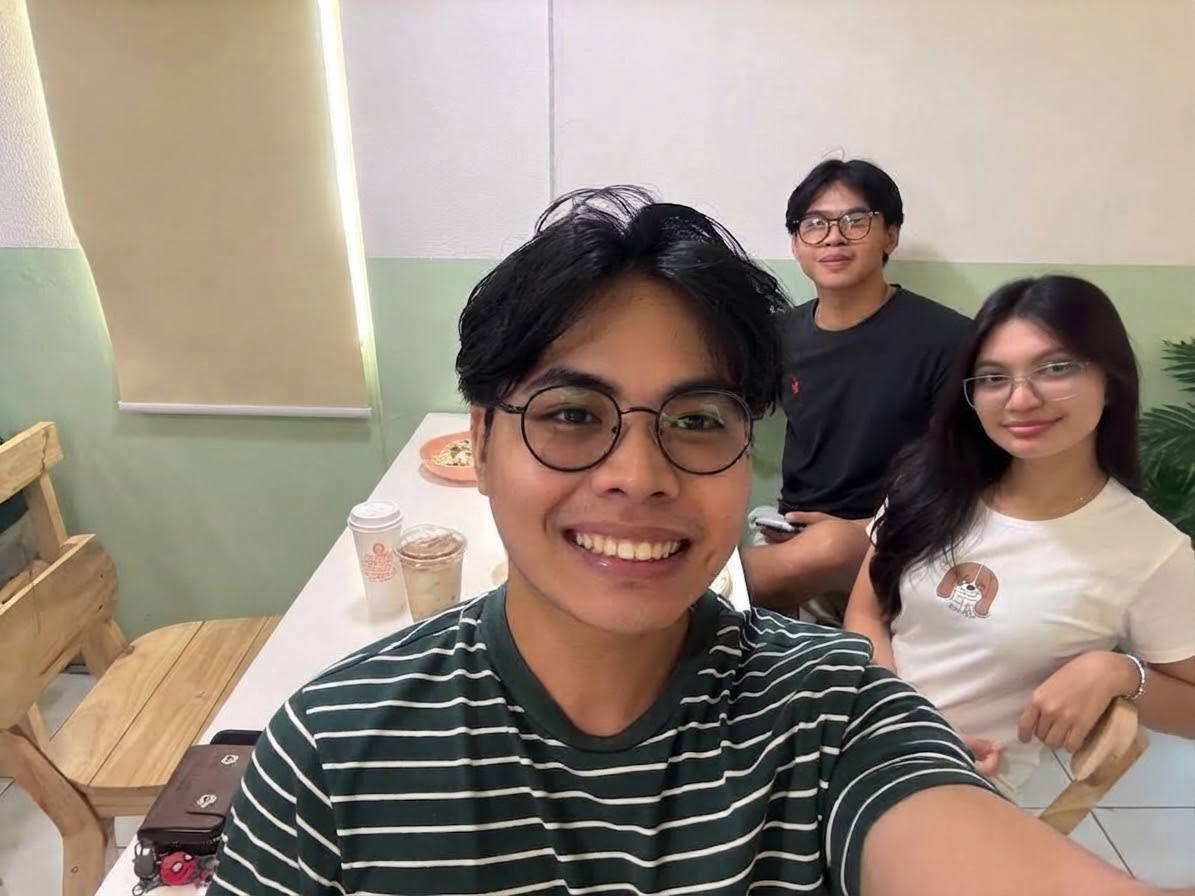
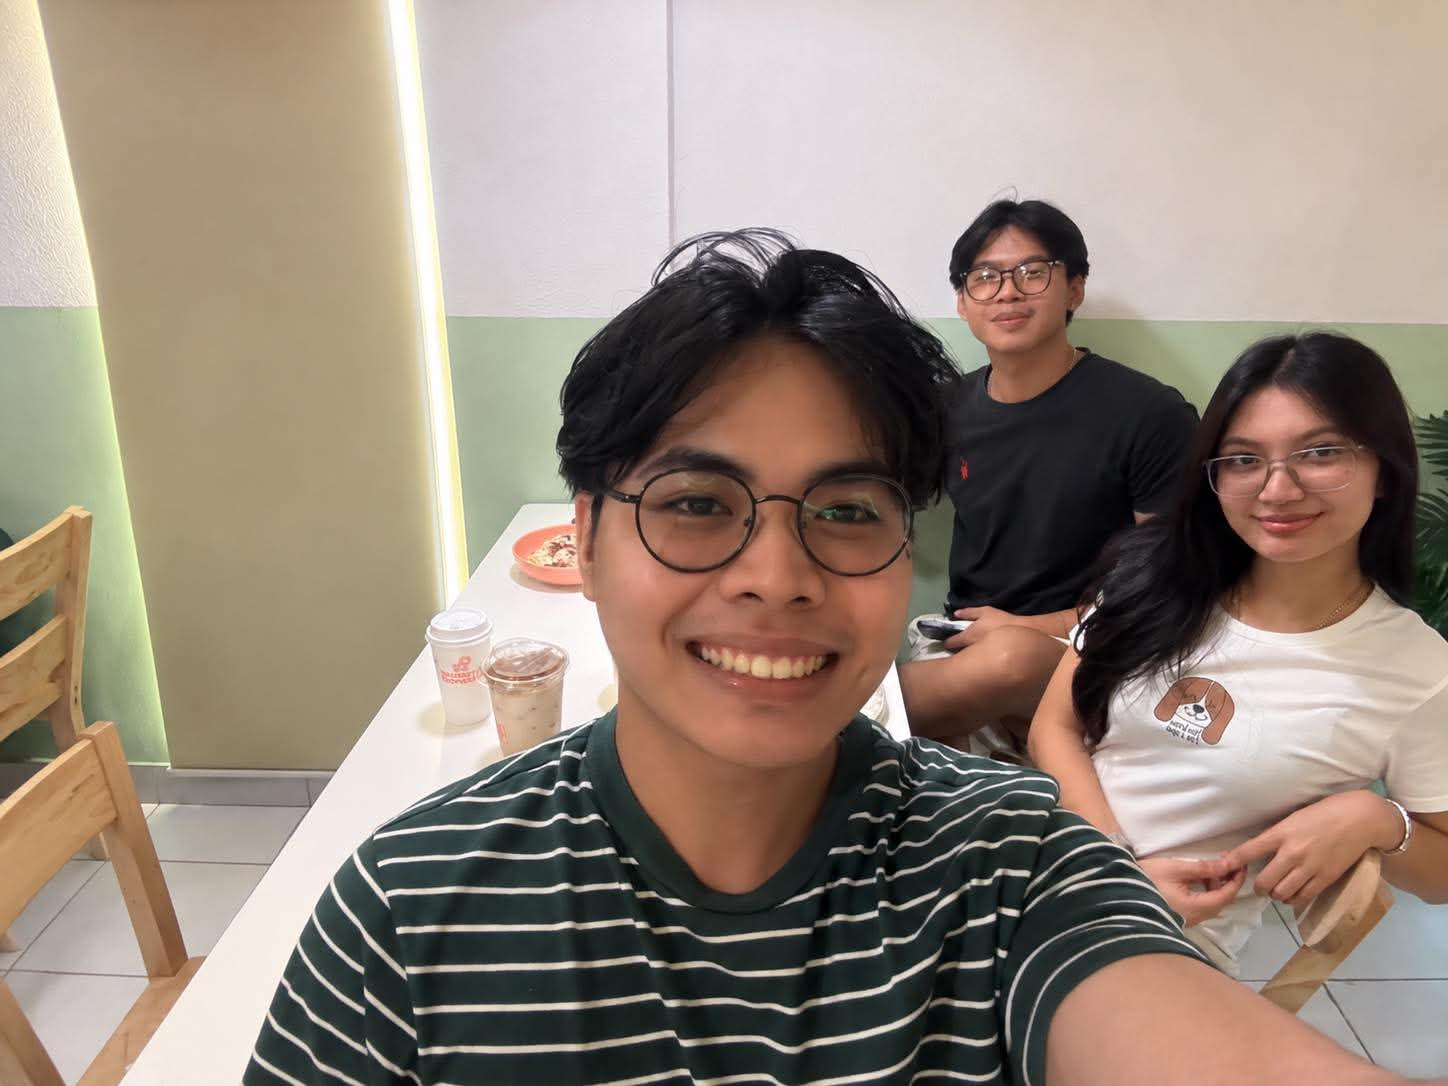
photo changed and title

diff --git a/SecondTermReact/src/main.tsx b/SecondTermReact/src/main.tsx
@@ -2,6 +2,7 @@ import React from 'react'
 import ReactDOM from 'react-dom/client'
 
 import './index.css'
+import logo from './assets/img/logo.png'
 
 import Header from './component/Header'
 import Navigation from './component/Navigation'
@@ -11,6 +12,19 @@ import Skills from './component/Skills'
 import Projects from './component/Projects'
 import Contact from './component/Contact'
 import Footer from './component/Footer'
+
+document.title = 'Three Minds | Portfolio'
+
+const favicon = document.querySelector("link[rel='icon']")
+
+if (favicon) {
+  favicon.setAttribute('href', logo)
+} else {
+  const newFavicon = document.createElement('link')
+  newFavicon.rel = 'icon'
+  newFavicon.href = logo
+  document.head.appendChild(newFavicon)
+}
 
 ReactDOM.createRoot(document.getElementById('root')!).render(
   <React.StrictMode>
@@ -24,3 +38,4 @@ ReactDOM.createRoot(document.getElementById('root')!).render(
     <Footer />
   </React.StrictMode>,
 )
+

diff --git a/SecondTermReact/src/component/Footer.tsx b/SecondTermReact/src/component/Footer.tsx
@@ -12,7 +12,7 @@ function Footer() {
         <div className="footer-top">
 
           <div className="footer-brand" id="footer">
-            <h2>Port hub</h2>
+            <h2>L2J Portfolio</h2>
 
             <p>
               Three Minds, One Future
@@ -119,7 +119,7 @@ function Footer() {
         <div className="footer-bottom">
 
           <p>
-            © 2026 Port hub. All rights reserved.
+            © 2026 L2J Portfolio. All rights reserved.
           </p>
 
           <a href="#header" className="back-to-top">

diff --git a/SecondTermReact/index.html b/SecondTermReact/index.html
@@ -4,7 +4,7 @@
     <meta charset="UTF-8" />
     <link rel="icon" type="image/svg+xml" href="/favicon.svg" />
     <meta name="viewport" content="width=device-width, initial-scale=1.0" />
-    <title>secondtermreact</title>
+    <title>Team Portfolio</title>
   </head>
   <body>
     <div id="root"></div>

diff --git a/SecondTermReact/src/component/Navigation.tsx b/SecondTermReact/src/component/Navigation.tsx
@@ -6,7 +6,7 @@ function Navigation() {
       <div className="navigation-container">
 
         <a href="#overview" className="logo">
-          Port hub
+          L2J Portfolio
         </a>
 
         <div className="nav-links">
